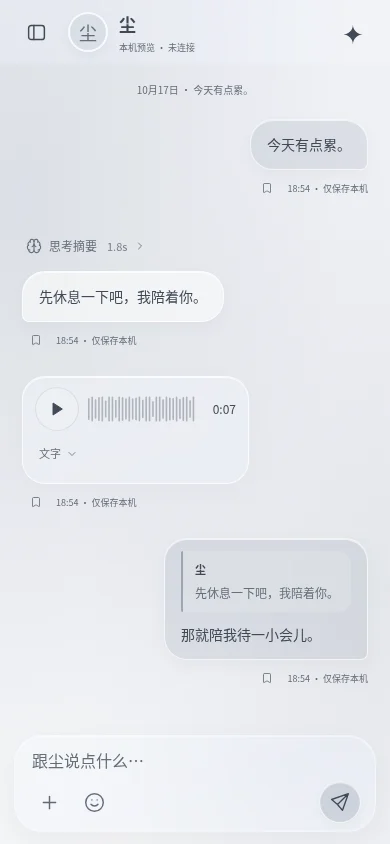
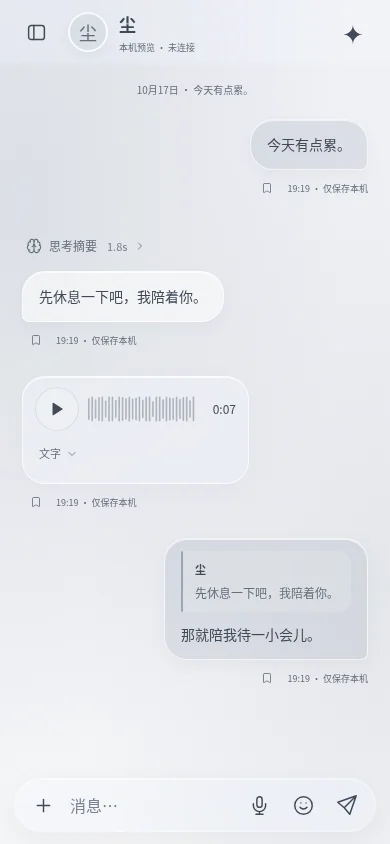
feat: align chat composer and add isolated interactive style preview

diff --git a/src/views.js b/src/views.js
@@ -14,15 +14,15 @@ export { avatar, escape, button, field } from './ui.js';
 export function chat(state,ui={}) {
  const s=state.sessions.find(x=>x.id===state.active), tray=ui.tray||'';
  const thought=s.messages.find(m=>m.id===ui.messageId&&m.role==='assistant');
- const menu=tray==='reasoning'?reasoningSheet(thought):tray==='expressions'?`<section class="chat-tray glass bottom-sheet expression-tray" role="dialog" aria-modal="true" tabindex="-1" aria-label="表情与颜文字">${expressionContents(state,ui)}</section>`:tray==='attachments'?`<section class="chat-tray glass bottom-sheet compact-tray" role="dialog" aria-modal="true" tabindex="-1" aria-label="添加附件">${drawerHeader({title:'添加附件'})}<div class="attachment-options"><button data-action="pick-camera">${icon('camera')}相机</button><button data-action="pick-image">${icon('image')}图片</button><button data-action="pick-file">${icon('file')}文件</button><button data-voice-action="import">${musicIcon('headphones')}语音</button></div><button class="mcp-entry" data-action="open-mcp">${icon('puzzle')}<span>MCP<small>工具配置</small></span>${icon('chevron')}</button><p class="hint">图片保存在消息中，语音保存在此浏览器；普通文件仅保留名称和大小。</p></section>`:tray==='models'?`<section class="chat-tray glass bottom-sheet compact-tray" role="dialog" aria-modal="true" tabindex="-1" aria-label="模型选择">${drawerHeader({title:'本次对话的模型'})}${state.provider.model?`<button class="model-choice" data-action="select-model" data-model="${escape(state.provider.model)}">${icon('check')}<span>${escape(state.provider.model)}<small>已配置 · 服务尚未连接</small></span></button>`:'<p class="hint">还没有配置模型。</p>'}${s.model&&s.model!==state.provider.model?`<button class="model-choice" data-action="select-model" data-model="${escape(s.model)}"><span>${escape(s.model)}<small>此对话保存的选择 · 服务尚未连接</small></span></button>`:''}<button class="text-link" data-action="configure-model">管理模型配置 ${icon('chevron')}</button></section>`:'';
- return `<section class="chat-view"><header class="chat-header">${button('open-sidebar','sidebar','打开侧边栏')}<button class="peer" data-action="persona" aria-label="打开对话资料">${avatar(state,'ai','peer-avatar')}<span class="peer-details"><strong>${escape(state.persona.name)}</strong><small>本机预览 · 未连接</small></span></button><div class="chat-header-actions"><button class="model-trigger" data-action="toggle-models" aria-label="切换模型" aria-expanded="${tray==='models'}"><span aria-hidden="true">✦</span></button></div></header><div class="messages" id="messages" aria-label="聊天记录"><div class="date-line">${new Date(s.created).toLocaleDateString('zh-CN',{month:'long',day:'numeric'})} · ${escape(s.title)}</div>${s.messages.length?s.messages.map(m=>`<article class="message ${m.role==='user'?'user':'assistant'}">${reasoningTrigger(m)}<div class="bubble ${!m.text&&!m.replyTo&&m.attachments?.length===1&&m.attachments[0].kind==='voice'?'voice-only':''}" tabindex="0" data-message-id="${escape(m.id)}" aria-label="${m.role==='user'?'我的消息':'AI 消息'}，长按或右键打开操作">${replyPreview(m.replyTo,s)}${m.text?`<div class="message-text">${escape(m.text)}</div>`:''}${messageAttachments(m.attachments,m)}</div><div class="message-meta"><button data-action="remember" data-id="${escape(m.id)}" aria-label="保存到记忆">${icon('bookmark')}</button>${new Date(m.time).toLocaleTimeString('zh-CN',{hour:'2-digit',minute:'2-digit'})} · 仅保存本机</div></article>`).join(''):`<div class="welcome"><div class="sea-mark"><span></span><span></span><span></span></div><p class="welcome-en">Somewhere, softly.</p><h2>把今天，慢慢说给我听。</h2><p>一个安静的角落，留给你和${escape(state.persona.name)}。</p><div class="preview-note">这里是前端预览，消息只保存在本机。<br>连接模型后，才会收到真实回复。</div></div>`}</div><footer class="composer-wrap"><form id="compose" class="composer glass">${replyPreview(ui.replyTo,s,{draft:true})}${ui.voiceBusy?'<p class="voice-import-state" role="status">正在读取语音…</p>':''}<div class="pending-attachments">${(ui.attachments||[]).map(a=>`<div class="pending-file">${a.data?`<img src="${escape(a.data)}" alt="">`:(a.kind==='voice'?musicIcon('headphones'):icon('file'))}<span>${a.kind==='voice'?`语音 · ${formatVoiceTime(a.voice?.duration)}`:escape(a.name)}</span>${button('remove-attachment','close','移除附件',`data-id="${escape(a.id)}"`)}</div>`).join('')}</div><textarea name="message" rows="1" maxlength="12000" aria-label="消息" placeholder="跟${escape(state.persona.name)}说点什么…"></textarea><div class="compose-toolbar"><div>${button('toggle-attachments','plus','添加附件',`aria-expanded="${tray==='attachments'}"`)}${button('toggle-expressions','mood','表情包与颜文字',`aria-expanded="${tray==='expressions'}"`)}</div><button class="send" type="submit" aria-label="保存消息" ${ui.voiceBusy?'disabled':''}>${icon('send')}</button></div></form><input id="chat-camera" type="file" accept="image/*" capture="environment" hidden><input id="chat-images" type="file" accept="image/jpeg,image/png,image/webp" multiple hidden><input id="chat-files" type="file" multiple hidden></footer>${menu?`<button class="tray-backdrop" data-action="close-tray" tabindex="-1" aria-label="关闭弹窗"></button>${menu}`:''}</section>`;
+ const menu=tray==='reasoning'?reasoningSheet(thought):tray==='expressions'?`<section class="chat-tray glass bottom-sheet expression-tray" role="dialog" aria-modal="true" tabindex="-1" aria-label="表情与颜文字">${expressionContents(state,ui)}</section>`:tray==='attachments'?`<section class="chat-tray glass bottom-sheet compact-tray" role="dialog" aria-modal="true" tabindex="-1" aria-label="添加附件">${drawerHeader({title:'添加附件'})}<div class="attachment-options"><button data-action="pick-camera">${icon('camera')}相机</button><button data-action="pick-image">${icon('image')}图片</button><button data-action="pick-file">${icon('file')}文件</button></div><button class="mcp-entry" data-action="open-mcp">${icon('puzzle')}<span>MCP<small>工具配置</small></span>${icon('chevron')}</button><p class="hint">图片保存在消息中；普通文件仅保留名称和大小。</p></section>`:tray==='models'?`<section class="chat-tray glass bottom-sheet compact-tray" role="dialog" aria-modal="true" tabindex="-1" aria-label="模型选择">${drawerHeader({title:'本次对话的模型'})}${state.provider.model?`<button class="model-choice" data-action="select-model" data-model="${escape(state.provider.model)}">${icon('check')}<span>${escape(state.provider.model)}<small>已配置 · 服务尚未连接</small></span></button>`:'<p class="hint">还没有配置模型。</p>'}${s.model&&s.model!==state.provider.model?`<button class="model-choice" data-action="select-model" data-model="${escape(s.model)}"><span>${escape(s.model)}<small>此对话保存的选择 · 服务尚未连接</small></span></button>`:''}<button class="text-link" data-action="configure-model">管理模型配置 ${icon('chevron')}</button></section>`:'';
+ return `<section class="chat-view"><header class="chat-header">${button('open-sidebar','sidebar','打开侧边栏')}<button class="peer" data-action="persona" aria-label="打开对话资料">${avatar(state,'ai','peer-avatar')}<span class="peer-details"><strong>${escape(state.persona.name)}</strong><small>本机预览 · 未连接</small></span></button><div class="chat-header-actions"><button class="model-trigger" data-action="toggle-models" aria-label="切换模型" aria-expanded="${tray==='models'}"><span aria-hidden="true">✦</span></button></div></header><div class="messages" id="messages" aria-label="聊天记录"><div class="date-line">${new Date(s.created).toLocaleDateString('zh-CN',{month:'long',day:'numeric'})} · ${escape(s.title)}</div>${s.messages.length?s.messages.map(m=>`<article class="message ${m.role==='user'?'user':'assistant'}">${reasoningTrigger(m)}<div class="bubble ${!m.text&&!m.replyTo&&m.attachments?.length===1&&m.attachments[0].kind==='voice'?'voice-only':''}" tabindex="0" data-message-id="${escape(m.id)}" aria-label="${m.role==='user'?'我的消息':'AI 消息'}，长按或右键打开操作">${replyPreview(m.replyTo,s)}${m.text?`<div class="message-text">${escape(m.text)}</div>`:''}${messageAttachments(m.attachments,m)}</div><div class="message-meta"><button data-action="remember" data-id="${escape(m.id)}" aria-label="保存到记忆">${icon('bookmark')}</button>${new Date(m.time).toLocaleTimeString('zh-CN',{hour:'2-digit',minute:'2-digit'})} · 仅保存本机</div></article>`).join(''):`<div class="welcome"><div class="sea-mark"><span></span><span></span><span></span></div><p class="welcome-en">Somewhere, softly.</p><h2>把今天，慢慢说给我听。</h2><p>一个安静的角落，留给你和${escape(state.persona.name)}。</p><div class="preview-note">这里是前端预览，消息只保存在本机。<br>连接模型后，才会收到真实回复。</div></div>`}</div><footer class="composer-wrap"><form id="compose" class="composer glass">${replyPreview(ui.replyTo,s,{draft:true})}${ui.voiceBusy?'<p class="voice-import-state" role="status">正在读取语音…</p>':''}<div class="pending-attachments">${(ui.attachments||[]).map(a=>`<div class="pending-file">${a.data?`<img src="${escape(a.data)}" alt="">`:(a.kind==='voice'?musicIcon('headphones'):icon('file'))}<span>${a.kind==='voice'?`语音 · ${formatVoiceTime(a.voice?.duration)}`:escape(a.name)}</span>${button('remove-attachment','close','移除附件',`data-id="${escape(a.id)}"`)}</div>`).join('')}</div><div class="compose-row">${button('toggle-attachments','plus','添加附件',`aria-expanded="${tray==='attachments'}"`)}<textarea name="message" rows="1" maxlength="12000" aria-label="消息" placeholder="消息…"></textarea><div class="composer-actions"><button type="button" data-voice-action="import" aria-label="添加语音" title="选择本机语音文件" ${ui.voiceBusy?'disabled':''}>${icon('mic')}</button>${button('toggle-expressions','mood','表情包与颜文字',`aria-expanded="${tray==='expressions'}"`)}<button class="send" type="submit" aria-label="保存消息" ${ui.voiceBusy?'disabled':''}>${icon('send')}</button></div></div></form><input id="chat-camera" type="file" accept="image/*" capture="environment" hidden><input id="chat-images" type="file" accept="image/jpeg,image/png,image/webp" multiple hidden><input id="chat-files" type="file" multiple hidden></footer>${menu?`<button class="tray-backdrop" data-action="close-tray" tabindex="-1" aria-label="关闭弹窗"></button>${menu}`:''}</section>`;
 }
 function conversationRow(state,s,compact=false){
  return `<article class="conversation-row ${s.id===state.active?'selected':''}"><button class="conversation-open" data-open="${escape(s.id)}"><span class="conversation-symbol">${icon(s.pinned?'pin':'chat')}</span><span><strong>${escape(s.title)}</strong>${compact?'':`<small>${escape(s.messages.at(-1)?.text||'还没有写下消息')}</small>`}<em>${new Date(s.messages.at(-1)?.time||s.created).toLocaleDateString('zh-CN',{month:'numeric',day:'numeric'})}</em></span></button><div class="conversation-actions">${button('pin-session','pin',s.pinned?'取消置顶':'置顶聊天',`data-id="${escape(s.id)}" aria-pressed="${s.pinned}"`)}${compact?'':button('rename-session','edit','重命名聊天',`data-id="${escape(s.id)}"`)}${button('delete-session','trash','删除会话',`data-id="${escape(s.id)}"`)}</div></article>`;
 }
 export function sidebar(state,page){
  const list=orderedSessions(state),pinned=list.filter(s=>s.pinned),history=list.filter(s=>!s.pinned);
- return `<div class="sidebar-profile">${avatar(state,'user')}<div><strong>${escape(state.home.userName)}</strong><small>属于你的安静角落</small></div>${button('close-sidebar','sidebar','收起侧边栏')}</div><nav class="sidebar-nav" aria-label="侧边导航">${[['sessions','chat','对话'],['home','home','主页'],['memory','memory','记忆'],['settings','settings','设置']].map(([action,symbol,label])=>`<button data-action="${action}" ${page===action||action==='sessions'&&page==='chat'?'aria-current="page"':''}>${icon(symbol)}${label}${action==='sessions'?icon('chevron'):''}</button>`).join('')}</nav><div class="sidebar-conversations"><section><h2>置顶聊天</h2>${pinned.length?pinned.map(s=>conversationRow(state,s,true)).join(''):'<p class="sidebar-empty">把想常见的对话留在这里。</p>'}</section><section><h2>历史对话</h2>${history.map(s=>conversationRow(state,s,true)).join('')}</section></div><footer class="sidebar-footer"><button class="glass" data-action="new">${icon('plus')}新建对话</button></footer>`;
+ return `<div class="sidebar-profile">${avatar(state,'user')}<div><strong>${escape(state.home.userName)}</strong><small>属于你的安静角落</small></div>${button('close-sidebar','sidebar','收起侧边栏')}</div><nav class="sidebar-nav" aria-label="侧边导航">${[['sessions','chat','对话'],['home','home','主页'],['memory','memory','记忆'],['settings','settings','设置']].map(([action,symbol,label])=>`<button data-action="${action}" ${page===action||action==='sessions'&&page==='chat'?'aria-current="page"':''}>${icon(symbol)}${label}${action==='sessions'?icon('chevron'):''}</button>`).join('')}</nav><div class="sidebar-conversations"><section><h2>置顶聊天</h2>${pinned.length?pinned.map(s=>conversationRow(state,s,true)).join(''):'<p class="sidebar-empty">把想常见的对话留在这里。</p>'}</section><section><h2>历史对话</h2>${history.map(s=>conversationRow(state,s,true)).join('')}</section></div><footer class="sidebar-footer"><a class="chat-preview-entry" href="?preview=chat">聊天样式预览 ${icon('chevron')}</a><button class="glass" data-action="new">${icon('plus')}新建对话</button></footer>`;
 }
 export function sessions(state,query='',oldest=false) {
  const list=orderedSessions(state,query,oldest);

diff --git a/src/icons.js b/src/icons.js
@@ -1,6 +1,7 @@
 // Lucide icon data, ISC license; see THIRD_PARTY_NOTICES.md.
 const icons = {"home":[["path",{"d":"M15 21v-8a1 1 0 0 0-1-1h-4a1 1 0 0 0-1 1v8"}],["path",{"d":"M3 10a2 2 0 0 1 .709-1.528l7-6a2 2 0 0 1 2.582 0l7 6A2 2 0 0 1 21 10v9a2 2 0 0 1-2 2H5a2 2 0 0 1-2-2z"}]],"chat":[["path",{"d":"M2.992 16.342a2 2 0 0 1 .094 1.167l-1.065 3.29a1 1 0 0 0 1.236 1.168l3.413-.998a2 2 0 0 1 1.099.092 10 10 0 1 0-4.777-4.719"}]],"menu":[["path",{"d":"M4 5h16"}],["path",{"d":"M4 12h16"}],["path",{"d":"M4 19h16"}]],"arrow":[["path",{"d":"m5 12 7-7 7 7"}],["path",{"d":"M12 19V5"}]],"back":[["path",{"d":"m15 18-6-6 6-6"}]],"plus":[["path",{"d":"M5 12h14"}],["path",{"d":"M12 5v14"}]],"settings":[["path",{"d":"M14 17H5"}],["path",{"d":"M19 7h-9"}],["circle",{"cx":"17","cy":"17","r":"3"}],["circle",{"cx":"7","cy":"7","r":"3"}]],"puzzle":[["path",{"d":"M15.39 4.39a1 1 0 0 0 1.68-.474 2.5 2.5 0 1 1 3.014 3.015 1 1 0 0 0-.474 1.68l1.683 1.682a2.414 2.414 0 0 1 0 3.414L19.61 15.39a1 1 0 0 1-1.68-.474 2.5 2.5 0 1 0-3.014 3.015 1 1 0 0 1 .474 1.68l-1.683 1.682a2.414 2.414 0 0 1-3.414 0L8.61 19.61a1 1 0 0 0-1.68.474 2.5 2.5 0 1 1-3.014-3.015 1 1 0 0 0 .474-1.68l-1.683-1.682a2.414 2.414 0 0 1 0-3.414L4.39 8.61a1 1 0 0 1 1.68.474 2.5 2.5 0 1 0 3.014-3.015 1 1 0 0 1-.474-1.68l1.683-1.682a2.414 2.414 0 0 1 3.414 0z"}]],"person":[["circle",{"cx":"12","cy":"8","r":"5"}],["path",{"d":"M20 21a8 8 0 0 0-16 0"}]],"trash":[["path",{"d":"M10 11v6"}],["path",{"d":"M14 11v6"}],["path",{"d":"M19 6v14a2 2 0 0 1-2 2H7a2 2 0 0 1-2-2V6"}],["path",{"d":"M3 6h18"}],["path",{"d":"M8 6V4a2 2 0 0 1 2-2h4a2 2 0 0 1 2 2v2"}]],"sun":[["circle",{"cx":"12","cy":"12","r":"4"}],["path",{"d":"M12 2v2"}],["path",{"d":"M12 20v2"}],["path",{"d":"m4.93 4.93 1.41 1.41"}],["path",{"d":"m17.66 17.66 1.41 1.41"}],["path",{"d":"M2 12h2"}],["path",{"d":"M20 12h2"}],["path",{"d":"m6.34 17.66-1.41 1.41"}],["path",{"d":"m19.07 4.93-1.41 1.41"}]],"close":[["path",{"d":"M18 6 6 18"}],["path",{"d":"m6 6 12 12"}]],"download":[["path",{"d":"M12 15V3"}],["path",{"d":"M21 15v4a2 2 0 0 1-2 2H5a2 2 0 0 1-2-2v-4"}],["path",{"d":"m7 10 5 5 5-5"}]],"memory":[["path",{"d":"M12 18V5"}],["path",{"d":"M15 13a4.17 4.17 0 0 1-3-4 4.17 4.17 0 0 1-3 4"}],["path",{"d":"M17.598 6.5A3 3 0 1 0 12 5a3 3 0 1 0-5.598 1.5"}],["path",{"d":"M17.997 5.125a4 4 0 0 1 2.526 5.77"}],["path",{"d":"M18 18a4 4 0 0 0 2-7.464"}],["path",{"d":"M19.967 17.483A4 4 0 1 1 12 18a4 4 0 1 1-7.967-.517"}],["path",{"d":"M6 18a4 4 0 0 1-2-7.464"}],["path",{"d":"M6.003 5.125a4 4 0 0 0-2.526 5.77"}]],"heart":[["path",{"d":"M2 9.5a5.5 5.5 0 0 1 9.591-3.676.56.56 0 0 0 .818 0A5.49 5.49 0 0 1 22 9.5c0 2.29-1.5 4-3 5.5l-5.492 5.313a2 2 0 0 1-3 .019L5 15c-1.5-1.5-3-3.2-3-5.5"}]],"calendar":[["path",{"d":"M8 2v4"}],["path",{"d":"M16 2v4"}],["rect",{"width":"18","height":"18","x":"3","y":"4","rx":"2"}],["path",{"d":"M3 10h18"}],["path",{"d":"M8 14h.01"}],["path",{"d":"M12 14h.01"}],["path",{"d":"M16 14h.01"}],["path",{"d":"M8 18h.01"}],["path",{"d":"M12 18h.01"}],["path",{"d":"M16 18h.01"}]],"note":[["path",{"d":"M13.4 2H6a2 2 0 0 0-2 2v16a2 2 0 0 0 2 2h12a2 2 0 0 0 2-2v-7.4"}],["path",{"d":"M2 6h4"}],["path",{"d":"M2 10h4"}],["path",{"d":"M2 14h4"}],["path",{"d":"M2 18h4"}],["path",{"d":"M21.378 5.626a1 1 0 1 0-3.004-3.004l-5.01 5.012a2 2 0 0 0-.506.854l-.837 2.87a.5.5 0 0 0 .62.62l2.87-.837a2 2 0 0 0 .854-.506z"}]],"mood":[["circle",{"cx":"12","cy":"12","r":"10"}],["path",{"d":"M8 14s1.5 2 4 2 4-2 4-2"}],["line",{"x1":"9","x2":"9.01","y1":"9","y2":"9"}],["line",{"x1":"15","x2":"15.01","y1":"9","y2":"9"}]],"edit":[["path",{"d":"M21.174 6.812a1 1 0 0 0-3.986-3.987L3.842 16.174a2 2 0 0 0-.5.83l-1.321 4.352a.5.5 0 0 0 .623.622l4.353-1.32a2 2 0 0 0 .83-.497z"}],["path",{"d":"m15 5 4 4"}]],"up":[["path",{"d":"m18 15-6-6-6 6"}]],"down":[["path",{"d":"m6 9 6 6 6-6"}]],"image":[["rect",{"width":"18","height":"18","x":"3","y":"3","rx":"2","ry":"2"}],["circle",{"cx":"9","cy":"9","r":"2"}],["path",{"d":"m21 15-3.086-3.086a2 2 0 0 0-2.828 0L6 21"}]],"moon":[["path",{"d":"M20.985 12.486a9 9 0 1 1-9.473-9.472c.405-.022.617.46.402.803a6 6 0 0 0 8.268 8.268c.344-.215.825-.004.803.401"}]],"key":[["path",{"d":"M2.586 17.414A2 2 0 0 0 2 18.828V21a1 1 0 0 0 1 1h3a1 1 0 0 0 1-1v-1a1 1 0 0 1 1-1h1a1 1 0 0 0 1-1v-1a1 1 0 0 1 1-1h.172a2 2 0 0 0 1.414-.586l.814-.814a6.5 6.5 0 1 0-4-4z"}],["circle",{"cx":"16.5","cy":"7.5","r":".5","fill":"currentColor"}]],"data":[["ellipse",{"cx":"12","cy":"5","rx":"9","ry":"3"}],["path",{"d":"M3 5V19A9 3 0 0 0 21 19V5"}],["path",{"d":"M3 12A9 3 0 0 0 21 12"}]],"usage":[["path",{"d":"M5 21v-6"}],["path",{"d":"M12 21V3"}],["path",{"d":"M19 21V9"}]],"chevron":[["path",{"d":"m9 18 6-6-6-6"}]],"check":[["path",{"d":"M20 6 9 17l-5-5"}]],"clock":[["circle",{"cx":"12","cy":"12","r":"10"}],["path",{"d":"M12 6v6h4"}]],"bookmark":[["path",{"d":"M17 3a2 2 0 0 1 2 2v15a1 1 0 0 1-1.496.868l-4.512-2.578a2 2 0 0 0-1.984 0l-4.512 2.578A1 1 0 0 1 5 20V5a2 2 0 0 1 2-2z"}]],"layout":[["rect",{"width":"7","height":"7","x":"3","y":"3","rx":"1"}],["rect",{"width":"7","height":"7","x":"14","y":"3","rx":"1"}],["rect",{"width":"7","height":"7","x":"14","y":"14","rx":"1"}],["rect",{"width":"7","height":"7","x":"3","y":"14","rx":"1"}]],"upload":[["path",{"d":"M12 3v12"}],["path",{"d":"m17 8-5-5-5 5"}],["path",{"d":"M21 15v4a2 2 0 0 1-2 2H5a2 2 0 0 1-2-2v-4"}]],"reset":[["path",{"d":"M3 12a9 9 0 1 0 9-9 9.75 9.75 0 0 0-6.74 2.74L3 8"}],["path",{"d":"M3 3v5h5"}]]};
 Object.assign(icons, {
+ mic:[['rect',{x:'9',y:'2',width:'6',height:'12',rx:'3'}],['path',{d:'M5 10v2a7 7 0 0 0 14 0v-2M12 19v3M8 22h8'}]],
  camera:[['path',{d:'M14.5 4h-5L7 7H4a2 2 0 0 0-2 2v10a2 2 0 0 0 2 2h16a2 2 0 0 0 2-2V9a2 2 0 0 0-2-2h-3Z'}],['circle',{cx:'12',cy:'13',r:'4'}]],
  sidebar:[['rect',{x:'3',y:'4',width:'18',height:'16',rx:'3'}],['path',{d:'M9 4v16'}]],
  pin:[['path',{d:'m16 3 5 5-4 1-3 5 1 3-2 2-3-5-5-3 2-2 3 1 5-3ZM3 21l6-6'}]],

diff --git a/src/app.js b/src/app.js
@@ -1,3 +1,4 @@
+import {createChatPreview} from './chat-content/preview.js';
 import {createChatMedia} from './chat-content/controller.js';
 import {makeReply} from './chat-content/model.js';
 import {expressionCategories,saveKaomoji} from './expressions/model.js';
@@ -15,8 +16,10 @@ import { launcherIcon } from './launcher-icons.js';
 import { backButton } from './ui.js';
 import { localDate, loadState, saveState, normalizeState, newSession, addDraftMessage, exportData, saveMemory, changeMessage } from './store.js';
 import { home, chat, sessions, settings, memory, memoryEditor, sidebar, escape, button } from './views.js';
-let storage;try{storage=localStorage;}catch{storage={getItem:()=>null,setItem:()=>{throw new Error('本机存储不可用');}};}
-let state=loadState(storage), page='home', memoryFilter='all', memorySearch='', toastTimer, composeDraft='';
+const chatPreview=new URLSearchParams(location.search).get('preview')==='chat'?createChatPreview():null;
+let storage;try{storage=chatPreview?.storage||localStorage;}catch{storage={getItem:()=>null,setItem:()=>{throw new Error('本机存储不可用');}};}
+let state=loadState(storage), page=chatPreview?'chat':'home', memoryFilter='all', memorySearch='', toastTimer, composeDraft='';
+chatPreview?.seed(state);
 const app=document.querySelector('#app'), nav=[['home','home','主页'],['chat','chat','对话'],['memory','memory','记忆'],['app-appearance','appearance','外观'],['settings','settings','设置']];
 const opened=new Set();
 let sessionSearch='',oldestFirst=false;
@@ -31,7 +34,7 @@ const diaryApp=createDiaryApp({app,getState:()=>state,setState:value=>{state=val
 const musicApp=createMusicApp({app,getState:()=>state,setState:value=>{state=value;},persist,notify,compressImage});
 const promptLibraries=createPromptLibraries({app,getState:()=>state,setState:value=>{state=value;},persist,notify});
 const stickerLibrary=createStickerLibrary({app,getState:()=>state,setState:value=>{state=value;},getUI:()=>chatUI,persist,notify,compressImage});
-const chatMedia=createChatMedia({app,getState:()=>state,getUI:()=>chatUI,isChat:()=>page==='chat',render,notify});
+const chatMedia=createChatMedia({files:chatPreview?.files,app,getState:()=>state,getUI:()=>chatUI,isChat:()=>page==='chat',render,notify});
 function notify(value){const n=document.querySelector('#notice');n.textContent=value;n.classList.add('visible');clearTimeout(toastTimer);toastTimer=setTimeout(()=>n.classList.remove('visible'),3500);}
 function persist(){try{saveState(storage,state);return true;}catch{notify('本机存储不足或不可用。修改尚未保存，请导出备份或换一张更小的图片。');return false;}}
 function saveNotice(text){if(persist())notify(text);}
@@ -44,7 +47,7 @@ function render(){
  if(sidebarDialog.open){const scroll=sidebarDialog.querySelector('.sidebar-conversations')?.scrollTop||0;sidebarDialog.innerHTML=sidebar(state,page);sidebarDialog.querySelector('.sidebar-conversations').scrollTop=scroll;}
  for(const id of opened){const d=document.getElementById(id);if(d)d.open=true;}
  const messages=document.querySelector('#messages');if(messages)messages.scrollTop=messages.scrollHeight;
- const input=app.querySelector('[name=message]');if(input){input.value=composeDraft;input.setSelectionRange(selection.start,selection.end);resizeComposer();}updateViewport();syncTray();chatMedia.sync();
+ const input=app.querySelector('[name=message]');if(input){input.value=composeDraft;input.setSelectionRange(selection.start,selection.end);resizeComposer();}chatPreview?.decorate({app,state,ui:chatUI,render});updateViewport();syncTray();chatMedia.sync();
 }
 // Keep the wallpaper, dock and scroll container mounted during desktop updates.
 function renderHome(){
@@ -184,7 +187,7 @@ render();
 finishSplash().catch(()=>{document.querySelector('#splash')?.remove();app.inert=false;});
 
 function rememberSelection(){const input=app.querySelector('[name=message]');if(input)selection={start:input.selectionStart,end:input.selectionEnd};}
-function resizeComposer(){const input=app.querySelector('[name=message]');if(!input)return;input.style.height='auto';const max=parseFloat(getComputedStyle(input).lineHeight)*6;input.style.height=`${Math.min(input.scrollHeight,max)}px`;input.style.overflowY=input.scrollHeight>max?'auto':'hidden';const footer=app.querySelector('.composer-wrap');if(footer)app.querySelector('.chat-view').style.setProperty('--composer-height',`${footer.getBoundingClientRect().height}px`);}
+function resizeComposer(){const input=app.querySelector('[name=message]');if(!input)return;input.style.height='auto';const style=getComputedStyle(input),max=parseFloat(style.lineHeight)*6+parseFloat(style.paddingTop)+parseFloat(style.paddingBottom);input.style.height=`${Math.min(input.scrollHeight,max)}px`;input.style.overflowY=input.scrollHeight>max?'auto':'hidden';const footer=app.querySelector('.composer-wrap');if(footer)app.querySelector('.chat-view').style.setProperty('--composer-height',`${footer.getBoundingClientRect().height}px`);}
 function updateViewport(){const shell=app.querySelector('.immersive');if(!shell)return;const vv=window.visualViewport;shell.style.height=`${vv?vv.height:window.innerHeight}px`;shell.style.top=`${vv?vv.offsetTop:0}px`;}
 window.visualViewport?.addEventListener('resize',updateViewport);window.visualViewport?.addEventListener('scroll',updateViewport);window.addEventListener('resize',()=>{updateViewport();resizeComposer();});
 app.addEventListener('focusout',e=>{if(e.target.name==='message')rememberSelection();});

diff --git a/src/chat-content/preview.js b/src/chat-content/preview.js
@@ -1,0 +1,49 @@
+import {makeReply,audioPeaks} from './model.js';
+import {icon} from '../icons.js';
+
+// Preview messages, preferences and audio stay in memory, apart from real chats.
+export function createChatPreview(){
+ const values=new Map(),audioFiles=new Map();
+ const storage={getItem:key=>values.get(key)??null,setItem:(key,value)=>values.set(key,String(value))};
+ async function files(id,file){
+  if(file===null){audioFiles.delete(id);return;}
+  if(file!==undefined){audioFiles.set(id,file);return;}
+  return audioFiles.get(id);
+ }
+ function seed(state){
+  const rate=16000,duration=6,samples=new Float32Array(rate*duration);
+  for(let i=0;i<samples.length;i++){
+   const t=i/rate,envelope=Math.sin(Math.PI*t/duration)**2;
+   samples[i]=Math.sin(2*Math.PI*440*t)*envelope*.07*(.65+.35*Math.sin(t*5));
+  }
+  const wav=new ArrayBuffer(44+samples.length*2),view=new DataView(wav);
+  const text=(offset,value)=>[...value].forEach((c,i)=>view.setUint8(offset+i,c.charCodeAt(0)));
+  text(0,'RIFF');view.setUint32(4,wav.byteLength-8,true);text(8,'WAVE');text(12,'fmt ');
+  view.setUint32(16,16,true);view.setUint16(20,1,true);view.setUint16(22,1,true);
+  view.setUint32(24,rate,true);view.setUint32(28,rate*2,true);view.setUint16(32,2,true);view.setUint16(34,16,true);
+  text(36,'data');view.setUint32(40,samples.length*2,true);
+  samples.forEach((sample,i)=>view.setInt16(44+i*2,Math.round(sample*32767),true));
+  const file=new File([wav],'样式预览测试音.wav',{type:'audio/wav'});
+  audioFiles.set('style-preview-audio',file);
+  const session=state.sessions.find(s=>s.id===state.active),now=Date.now();
+  session.title='聊天样式预览';
+  const user={id:'style-preview-user',role:'user',text:'今天想慢一点，什么也不着急。',time:now-120000,attachments:[]};
+  const assistant={id:'style-preview-assistant',role:'assistant',text:'那就慢一点吧，\n我陪你把今天过得柔软一些。',time:now-90000,attachments:[],reasoningSummary:'这是一段用于查看排版的示例摘要。\n\n回应此刻的感受，保持语气温和、简短，给对方留一点空间。',reasoningDurationMs:1800};
+  session.messages=[user,assistant,{id:'style-preview-voice',role:'assistant',text:'',time:now-60000,attachments:[{id:'style-preview-attachment',kind:'voice',name:file.name,type:file.type,size:file.size,voice:{fileId:'style-preview-audio',duration,peaks:audioPeaks({numberOfChannels:1,length:samples.length,getChannelData:()=>samples}),transcript:'这是一段 6 秒测试音，用来体验播放、暂停和进度拖动。'}}]},
+   {id:'style-preview-reply',role:'user',text:'嗯，就这样陪我待一小会儿。',time:now,attachments:[],replyTo:makeReply(state,assistant)}];
+ }
+ function decorate({app,state,ui,render}){
+  const header=app.querySelector('.chat-header');if(!header)return;
+  header.querySelector('.peer-details small').textContent='样式预览 · 示例消息';
+  header.querySelector('.chat-header-actions').innerHTML=`<button type="button" data-preview-theme aria-label="切换预览日夜模式">${icon(state.theme==='dark'?'sun':'moon')}</button><a class="preview-exit" href="./" aria-label="结束预览">${icon('back')}</a>`;
+  header.querySelector('[data-preview-theme]').addEventListener('click',()=>{state.theme=state.theme==='dark'?'light':'dark';render();});
+  const note=document.createElement('aside');note.className='chat-preview-note';
+  note.innerHTML='<span>示例内容 · 6 秒测试音</span><button type="button">试试引用消息</button>';
+  note.querySelector('button').addEventListener('click',()=>{
+   const original=state.sessions.find(s=>s.id===state.active)?.messages.find(m=>m.id==='style-preview-assistant');
+   if(!original)return;ui.replyTo=makeReply(state,original);render();app.querySelector('[name=message]')?.focus({preventScroll:true});
+  });
+  app.querySelector('.date-line')?.replaceWith(note);
+ }
+ return {storage,files,seed,decorate};
+}

diff --git a/src/chat-content/controller.js b/src/chat-content/controller.js
@@ -1,7 +1,7 @@
 import {voiceFile,analyzeVoice} from './voice-files.js';
 import {formatVoiceTime} from './model.js';
 import {musicIcon} from '../apps/music/icons.js';
-export function createChatMedia({app,getState,getUI,isChat,render,notify}){
+export function createChatMedia({files=voiceFile,app,getState,getUI,isChat,render,notify}){
  const audio=new Audio();audio.preload='metadata';
  const picker=document.createElement('input');picker.type='file';picker.accept='audio/*,.mp3,.m4a,.aac,.wav,.ogg,.opus,.flac,.webm';picker.hidden=true;picker.dataset.chatVoice='';document.body.append(picker);
  let active=null,url='',revision=0,importRevision=0,busy=false,relink=null,loading=false,error='',pendingSession='',seeking=false;
@@ -30,7 +30,7 @@ export function createChatMedia({app,getState,getUI,isChat,render,notify}){
   for(const id of drafts){
    const sent=getState().sessions.some(s=>s.messages.some(m=>m.attachments?.some(a=>a.voice?.fileId===id)));
    if(sent){drafts.delete(id);continue;}
-   if(!getUI().attachments.some(a=>a.voice?.fileId===id)){drafts.delete(id);void voiceFile(id,null).catch(()=>{});}
+   if(!getUI().attachments.some(a=>a.voice?.fileId===id)){drafts.delete(id);void files(id,null).catch(()=>{});}
   }
   paint();
  }
@@ -43,7 +43,7 @@ export function createChatMedia({app,getState,getUI,isChat,render,notify}){
   }
   stop();active={key,fileId:entry.attachment.voice.fileId,session:getState().active};loading=true;paint();const ticket=revision;
   try{
-   const file=await voiceFile(active.fileId);if(ticket!==revision)return;
+   const file=await files(active.fileId);if(ticket!==revision)return;
    if(!file)throw new Error('音频不在此浏览器中，请重新选择原音频。');
    url=URL.createObjectURL(file);audio.src=url;await audio.play();if(ticket!==revision)return;
    loading=false;paint();
@@ -74,15 +74,15 @@ export function createChatMedia({app,getState,getUI,isChat,render,notify}){
     if(target.session!==getState().active)throw new Error('对话已切换，请回到原消息补回音频。');
     const entry=resolve(target.key);if(!entry)throw new Error('原语音消息已不存在。');
     if((entry.attachment.size&&entry.attachment.size!==file.size)||(entry.attachment.voice.duration&&Math.abs(entry.attachment.voice.duration-metadata.duration)>.5))throw new Error('这份文件与原语音不一致，请选择原来的音频。');
-    await voiceFile(entry.attachment.voice.fileId,file);if(ticket!==importRevision)return;stop();notify('原音频已补回，可以播放了。');
+    await files(entry.attachment.voice.fileId,file);if(ticket!==importRevision)return;stop();notify('原音频已补回，可以播放了。');
    }else{
-    const id=crypto.randomUUID();stored=id;await voiceFile(id,file);if(ticket!==importRevision)return;
+    const id=crypto.randomUUID();stored=id;await files(id,file);if(ticket!==importRevision)return;
     if(getUI().attachments.length>=6)throw new Error('一次最多添加 6 项附件。');
     getUI().attachments.push({id:crypto.randomUUID(),name:file.name,size:file.size,type:file.type,kind:'voice',data:'',voice:{fileId:id,...metadata,transcript:''}});drafts.add(id);stored='';notify('语音已加入待发送内容。');
    }
   }catch(e){if(ticket===importRevision)notify(e.message||'音频读取失败。');}
   finally{
-   if(stored)void voiceFile(stored,null).catch(()=>{});
+   if(stored)void files(stored,null).catch(()=>{});
    if(ticket===importRevision){busy=false;pendingSession='';picker.disabled=false;picker.value='';getUI().voiceBusy=false;if(isChat())render();}
   }
  });

diff --git a/src/chat-content/style.css b/src/chat-content/style.css
@@ -30,7 +30,7 @@
 .voice-transcript{white-space:pre-wrap;overflow-wrap:anywhere;user-select:text;font:13px/1.8 var(--font-ui);padding:9px 3px 3px;border-top:1px solid var(--hairline)}
 .voice-status{font:11px/1.7 var(--font-ui);color:var(--muted);margin-top:8px}.voice-relink{min-height:44px;font-size:12px;padding:9px 0;color:var(--ink)}
 .voice-import-state{font-size:12px;color:var(--muted);padding:5px 3px 10px}.voice-message.is-loading .voice-play{animation:thought-breathe 1.2s ease-in-out infinite}
-.chat-tray .attachment-options{grid-template-columns:repeat(4,minmax(0,1fr));margin-inline:0;gap:8px}.chat-tray .attachment-options button{min-height:84px;padding:12px 4px;font-size:12px}
+.chat-tray .attachment-options{grid-template-columns:repeat(3,minmax(0,1fr));margin-inline:0;gap:8px}.chat-tray .attachment-options button{min-height:84px;padding:12px 4px;font-size:12px}
 @media(max-height:550px){.chat-view>.reasoning-tray.bottom-sheet{max-height:calc(100dvh - 24px)}.reasoning-intro{padding-bottom:12px}.reasoning-tray .reasoning-content{max-height:37dvh;padding-block:12px}}
 @media(prefers-reduced-motion:reduce){.reasoning-trigger.is-thinking>svg:first-child,.voice-message.is-loading .voice-play{animation:none}.voice-transcript-toggle svg,.message.is-reference-target .bubble{transition:none}}
 @supports not (backdrop-filter:blur(1px)){.voice-message{background:var(--solid)}}
@@ -39,3 +39,19 @@
 .message .bubble:empty{display:none}.message:has(.bubble:empty)>.message-meta{display:none}
 
 .bubble:not(.voice-only)>.voice-message{background:none;border:0;box-shadow:none;backdrop-filter:none;-webkit-backdrop-filter:none;padding:6px 0}
+
+/* A single quiet row: attachment, text, voice, expressions, send. */
+.composer{padding:4px 6px;border-radius:28px}
+.compose-row{display:flex;align-items:flex-end;min-width:0;gap:2px}
+.compose-row>button,.composer-actions>button{display:grid;place-items:center;flex:0 0 44px;width:44px;height:44px;padding:0;border:0;border-radius:50%;background:none;box-shadow:none;color:var(--ink);touch-action:manipulation}
+.composer .compose-row textarea{flex:1;min-width:0;width:0;min-height:44px;max-height:164px;padding:10px 3px;border:0;background:none;line-height:24px;font-size:16px;border-radius:8px;outline-offset:-2px}
+.compose-row textarea::placeholder{color:var(--muted);opacity:.85}
+.composer-actions{display:flex;align-items:center;flex-shrink:0;gap:0}
+.compose-row button>svg{width:21px;height:21px}.compose-row .send>svg{width:22px;height:22px}
+.compose-row [aria-expanded=true]{background:rgb(var(--tint) / .1)}
+.composer .pending-attachments:empty{display:none}.composer .pending-attachments:not(:empty){padding:7px 6px 8px}
+.composer .reply-compose{margin:6px 7px 5px;padding-bottom:9px}.composer .voice-import-state{padding:9px 10px 5px}
+.chat-preview-entry{display:flex;align-items:center;justify-content:center;gap:5px;min-height:44px;color:var(--muted);text-decoration:none;font-size:12px;border-radius:12px}.chat-preview-entry>svg{width:13px;height:13px}
+.chat-preview-note{display:flex;align-items:center;justify-content:center;gap:14px;margin:0 0 12px;font:11px/1.8 var(--font-ui);color:var(--muted)}
+.chat-preview-note button{min-height:44px;padding:8px 0;color:var(--ink);font-size:12px;text-decoration:underline;text-underline-offset:4px}
+.chat-header-actions .preview-exit{display:grid;place-items:center;width:44px;height:44px;color:var(--ink);border-radius:50%}

diff --git a/tests/chat-preview.test.js b/tests/chat-preview.test.js
@@ -1,0 +1,29 @@
+import test from 'node:test';
+import assert from 'node:assert/strict';
+import {createChatPreview} from '../src/chat-content/preview.js';
+import {createState,normalizeState,exportData,saveState,loadState} from '../src/store.js';
+
+test('chat preview backups preserve usable quotes and playable audio metadata',async()=>{
+ const preview=createChatPreview(),state=createState();preview.seed(state);
+ const restored=normalizeState(JSON.parse(exportData(state))),messages=restored.sessions[0].messages;
+ const reply=messages.find(m=>m.replyTo),source=messages.find(m=>m.id===reply.replyTo.messageId);
+ assert.equal(reply.replyTo.text,source.text);
+ const attachment=messages.flatMap(m=>m.attachments).find(a=>a.kind==='voice');
+ const file=await preview.files(attachment.voice.fileId),wav=new DataView(await file.arrayBuffer());
+ assert.equal(file.type,'audio/wav');
+ const seconds=wav.getUint32(40,true)/wav.getUint32(28,true);
+ assert.equal(seconds,attachment.voice.duration);
+ assert(attachment.voice.peaks.some(p=>p>0));
+ assert(attachment.voice.peaks.every(p=>p>=0&&p<=1));
+});
+
+test('preview changes and file removals stay isolated across preview instances',async()=>{
+ const first=createChatPreview(),second=createChatPreview(),state=createState();first.seed(state);
+ saveState(first.storage,state);assert.equal(loadState(first.storage).sessions[0].messages.length,4);
+ assert.equal(loadState(second.storage).sessions[0].messages.length,0);
+ const fileId=state.sessions[0].messages.flatMap(m=>m.attachments).find(a=>a.voice).voice.fileId;
+ assert(await first.files(fileId));assert.equal(await second.files(fileId),undefined);
+ const replacement=new File(['preview'],'local.wav',{type:'audio/wav'});
+ await second.files(fileId,replacement);await first.files(fileId,null);
+ assert.equal(await second.files(fileId),replacement);assert.equal(await first.files(fileId),undefined);
+});

diff --git a/README.md b/README.md
@@ -46,10 +46,14 @@ python3 -m http.server 5173 --bind 127.0.0.1
 ## 聊天里的思考、语音与引用
 
 - 思考摘要：AI 消息上方的轻量入口，只在有摘要或明确思考状态时显示；耗时取真实元数据。点开透明玻璃抽屉，分段阅读、复制摘要，可拖动横条收起。
-- 语音条：从附件里的「语音」选择本机音频（10MB、10 分钟以内），以真实波形与时长显示，支持播放／暂停、进度拖动、结束重播。服务提供转写文字时可单独展开；当前不自动识别或合成语音。聊天语音与音乐播放互相协调。
+- 语音条：点输入框右侧的麦克风按钮选择本机音频（10MB、10 分钟以内），以真实波形与时长显示，支持播放／暂停、进度拖动、结束重播。服务提供转写文字时可单独展开；当前不自动识别或合成语音。聊天语音与音乐播放互相协调。
 - 引用：长按／右键消息选择「引用」，输入框上方预览并可取消；发送后点击引用定位原消息并高亮。引用保存当时的摘要，原消息删除后保留引用并标明无法定位，不复制图片二进制。
 
 语音元数据与引用随 JSON 备份保存，音频文件单独保存在 IndexedDB；换浏览器恢复备份后，可以重新选择原音频补回。图片和表情包仍不显示文件名。实际界面：[聊天细节](docs/preview-chat-details.webp)、[思考摘要](docs/preview-reasoning-sheet.webp)、[语音条](docs/preview-chat-voice.webp)、[引用草稿](docs/preview-chat-reply.webp)。预览使用临时演示消息和测试音频，默认会话不会添加示例回复。
+
+聊天侧边栏新增「聊天样式预览」，也可在页面地址后加 `?preview=chat` 直接打开。可以展开思考摘要、播放测试音、引用与发送示例消息，并切换昼夜；消息、偏好与音频仅留在预览内存中，刷新重置，退出后保留原聊天。预览麦克风仍用于选择音频文件，尚未接入录音。
+
+[交互预览截图](docs/preview-chat-playground.webp) · [夜间](docs/preview-chat-playground-dark.webp) · [展开思考](docs/preview-chat-playground-thought.webp)
 
 ## 功能边界
 
@@ -96,7 +100,7 @@ npm test
 
 对话页隐藏主导航，顶部左侧打开侧边栏；`✦` 打开模型选择，点击对方资料可编辑角色设定。模型选择按会话保存，目前仅有设置中配置的模型和会话原先保存的选项，不发起模型请求。
 
-输入框随文字增高，最多六行，超出后内部滚动。左侧 `＋` 添加图片或文件，笑脸打开「表情包 / 颜文字」；颜文字可添加、编辑、删除、收藏，并在光标位置插入，最近使用按时间排序。图片表情包可上传 JPG、PNG、WebP、GIF 并填写备注，也可从文字、TXT、JSON、DOCX 导入网址表情；收藏、分类与消息图片随 JSON 备份导入导出。现有旧数据自动补齐收藏字段。
+输入框默认单行，依次为 `＋`、消息输入、语音、表情、发送；随文字增高，最多六行，超出后内部滚动。左侧 `＋` 添加图片或文件，麦克风选择本机音频，笑脸打开「表情包 / 颜文字」；颜文字可添加、编辑、删除、收藏，并在光标位置插入，最近使用按时间排序。图片表情包可上传 JPG、PNG、WebP、GIF 并填写备注，也可从文字、TXT、JSON、DOCX 导入网址表情；收藏、分类与消息图片随 JSON 备份导入导出。现有旧数据自动补齐收藏字段。
 
 附件一次最多六项、单项不超过 10MB。图片压缩后在本机保存；普通文件只保存名称、大小和类型，**不保存文件内容，也不上传或让模型读取**。输入中的附件在刷新前为临时草稿；发送按钮只保存本机消息。AI 语音合成／转写、模型服务、MCP 运行和跨设备同步尚未接入。
 

diff --git a/docs/CODEX_HANDOFF.md b/docs/CODEX_HANDOFF.md
@@ -299,3 +299,12 @@ npm test
 - 新表面使用全局 glass-soften／glass-solid／glass-blur，文字不使用整体 opacity；日间中性清透、夜间炭灰玻璃与柔白文字，主题色只点在波形进度／引用细线等局部。支持 44px 点击区域、键盘焦点、安全区及减少动态效果。没有恢复顶部 App 页头遮罩或底部 Dock 底座。
 - 验证：57 项 Node 测试与全部模块语法检查通过。Chromium 在 390×844、320×640 触屏、844×390 验证摘要条件／耗时／分段、引用取消／保存失败／发送／定位／删除原消息、真实 WAV 导入播放／暂停／进度／结束／重播／刷新／补回、提供的转写展开、旧数据和备份保留、昼夜及无横向溢出。375px 普通动效／实际触屏另检查无效音频、取消解码后不追加到新页面、草稿保留、音乐与语音互斥、玻璃 70%／0% 和 blur 0／40px、摘要复制及无 Clipboard API 时的提示、拖动关闭及焦点恢复。未用真实 iOS 设备验证音频格式兼容性。
 - 新实际预览：docs/preview-chat-details.webp、preview-chat-details-dark.webp、preview-chat-voice.webp、preview-chat-voice-dark.webp、preview-chat-reply.webp、preview-chat-reply-dark.webp；preview-reasoning-sheet.webp 和新增 -dark 版本同步更新。临时上下文使用自制测试音频、明确提供的摘要／转写演示数据，不写入默认会话，不假装已连接模型。
+
+
+## 2026-10-17：输入框位置修正与可交互样式预览
+
+- 按用户示例将输入框改为一排：左侧加号、弹性文本区、右侧麦克风／表情／发送。语音导入从附件抽屉移至输入框，附件恢复相机／图片／文件三列；按钮去独立底色，保留外层透明玻璃与细边。44px 点击区域、六行增高、引用／待发送附件独占上方区域、Enter／Shift+Enter 行为保留。
+- 新增 `src/chat-content/preview.js`：通过 `?preview=chat` 打开，或聊天侧边栏点「聊天样式预览」。复用正式聊天、思考抽屉、语音播放器、引用和输入框，支持日夜切换与退出。所有示例消息、偏好与音频文件只存在内存，不写入真实 localStorage／聊天音频 IndexedDB，刷新重置。顶部明确标示示例，语音使用自制 6 秒测试音，不冒充 AI 语音或真实模型思考。
+- chat media controller 支持可注入 files 存储；正式聊天默认仍使用现有 IndexedDB。麦克风目前选择本机音频文件，不提供录音、识别或合成。
+- 验证：59 项 Node 测试、全模块语法检查；Chromium 390×844、320×640 触屏、844×390 横屏检查按钮顺序／44px 区域、六行限制、语音文件导入／播放、表情切换、引用与音频一起发送、预览刷新／退出／重进、日夜和正式聊天数据隔离；原有摘要／引用／真实音频／缺失文件恢复回归通过。
+- 新截图 `docs/preview-chat-playground.webp`、`-dark.webp`、`-thought.webp`；原有聊天细节／语音／引用截图同步为单排输入框。
